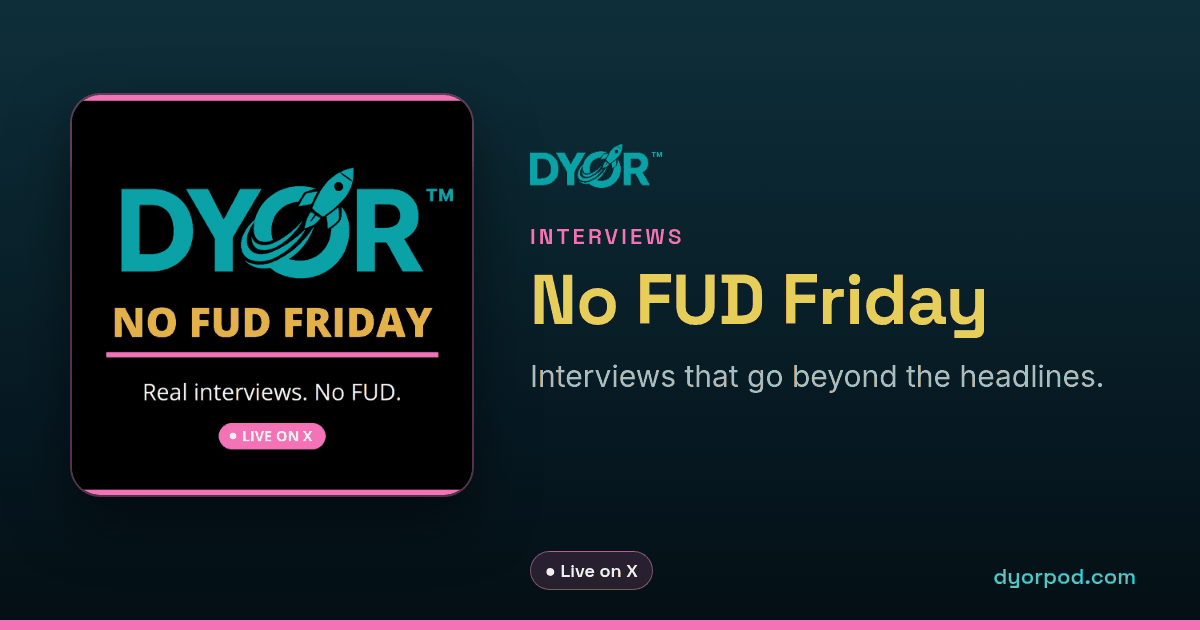
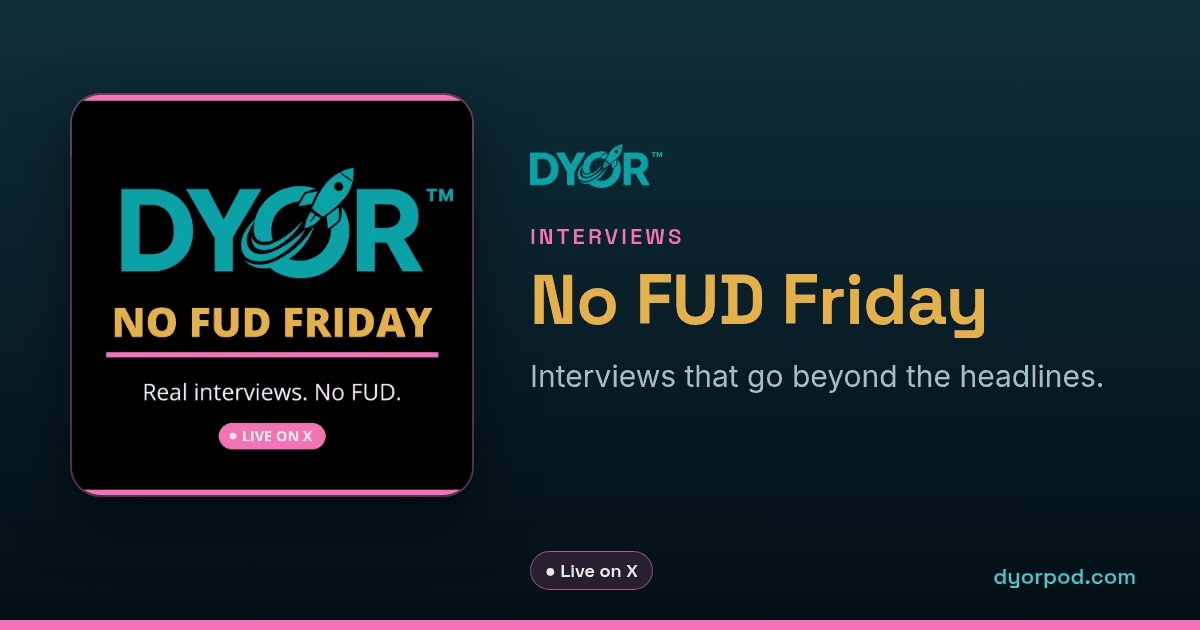
Unify site gold to show gold #E4B048 (was #E5CF59): --gold, button tints/borders, pagehead rule; OG card titles rebuilt in #E4B048 with DYOR™

Changed region(s): [[0.4317, 0.4222, 0.8325, 0.5429]]

diff --git a/assets/site.css b/assets/site.css
@@ -1,7 +1,7 @@
 @font-face{font-family:"Inter";src:url(fonts/Inter-Variable.woff2) format("woff2");font-weight:100 900;font-style:normal;font-display:swap}
 @font-face{font-family:"Space Grotesk";src:url(fonts/SpaceGrotesk-Variable.woff2) format("woff2");font-weight:300 700;font-style:normal;font-display:swap}
 
-:root{--deep:#040f14;--bg:#061821;--bg2:#0a2630;--el:#0e2f3a;--brand:#13a9a6;--bright:#31d1c6;--gold:#e5cf59;--t1:#f5fafa;--t2:#a8bcc1;--bd:#a8bcc124;--sun:#B39DFF}
+:root{--deep:#040f14;--bg:#061821;--bg2:#0a2630;--el:#0e2f3a;--brand:#13a9a6;--bright:#31d1c6;--gold:#e4b048;--t1:#f5fafa;--t2:#a8bcc1;--bd:#a8bcc124;--sun:#B39DFF}
 *{box-sizing:border-box}body{margin:0;background:var(--bg);color:var(--t1);font-family:Inter,system-ui,sans-serif;line-height:1.5}
 h1,h2,h3,.logo{font-family:"Space Grotesk",system-ui,sans-serif;letter-spacing:-.02em}a{color:inherit}
 .draft{background:var(--gold);color:#061821;text-align:center;font:600 13px/1.4 Inter,sans-serif;padding:8px}
@@ -39,8 +39,8 @@ footer{background:var(--deep);padding:28px 0;color:var(--t2);font-size:13px;bord
 
 @media(max-width:820px){.hero,.two{grid-template-columns:1fr}.hero{padding-top:40px}.sunday{padding:22px}}
 html,body{max-width:100%}body{overflow-x:hidden}@supports (overflow-x:clip){html,body{overflow-x:clip}}main,.hero>*{min-width:0}
-.xfollow{display:inline-flex;align-items:center;gap:10px;min-height:48px;padding:0 22px;border-radius:999px;border:2px solid var(--gold);color:var(--t1);font-weight:700;text-decoration:none;background:#e5cf5914}.xfollow b{color:var(--gold)}.xfollow:hover{background:#e5cf5933}
-.xband{margin:8px 0 48px;padding:28px;border:1px solid #e5cf5966;border-radius:20px;background:linear-gradient(160deg,var(--el),var(--bg2));display:flex;flex-wrap:wrap;gap:16px 24px;align-items:center;justify-content:space-between}.xband h2{margin:0;font-size:28px}.xband p{margin:4px 0 0;color:var(--t2)}
+.xfollow{display:inline-flex;align-items:center;gap:10px;min-height:48px;padding:0 22px;border-radius:999px;border:2px solid var(--gold);color:var(--t1);font-weight:700;text-decoration:none;background:#e4b04814}.xfollow b{color:var(--gold)}.xfollow:hover{background:#e4b04833}
+.xband{margin:8px 0 48px;padding:28px;border:1px solid #e4b04866;border-radius:20px;background:linear-gradient(160deg,var(--el),var(--bg2));display:flex;flex-wrap:wrap;gap:16px 24px;align-items:center;justify-content:space-between}.xband h2{margin:0;font-size:28px}.xband p{margin:4px 0 0;color:var(--t2)}
 /* r4 header: universal DYOR mark (Legal keeps pre-pass text logo) */
 .brand{display:flex;flex-direction:column;align-items:flex-start;gap:4px;padding:8px 0}.brand .mark{display:inline-flex;min-height:44px;align-items:center}.brand .mark img{height:40px;width:auto;display:block}
 .brand .mark{text-decoration:none}
@@ -52,7 +52,7 @@ header .wrap:has(.brand){flex-wrap:wrap;gap:4px 16px}
 @media(max-width:520px){header .wrap:has(.brand){flex-wrap:nowrap;justify-content:space-between;gap:8px;padding:10px 16px}.brand{padding:0}.brand~nav{width:auto;margin-left:auto;display:flex;flex-wrap:nowrap;justify-content:flex-end;gap:0}.brand~nav a{padding:0 10px;min-width:44px;min-height:44px;justify-content:center}.brand .mark img{height:34px}
 .brand .mark .tm{margin-top:9px;font-size:15px}}
 /* r4: inner pages carry homepage hero/card look (Legal excluded: no .r4 class) */
-.r4 .pagehead{margin:40px 0 40px;padding:40px;border:1px solid var(--bd);border-top:2px solid #e5cf5999;border-radius:20px;background:linear-gradient(160deg,var(--el),var(--bg2));gap:28px}
+.r4 .pagehead{margin:40px 0 40px;padding:40px;border:1px solid var(--bd);border-top:2px solid #e4b04899;border-radius:20px;background:linear-gradient(160deg,var(--el),var(--bg2));gap:28px}
 .r4 .pagehead h1{font-size:clamp(34px,4.6vw,56px);letter-spacing:-.01em}.r4 .pagehead .sub{color:var(--t2);font-size:18px;max-width:38em;margin:8px 0}.r4 .pagehead .cta{margin-top:18px}
 .r4 .pagehead>div{min-width:0;flex:1 1 300px}.r4 .pagehead .plat{margin-top:16px}
 .r4 .block>h2{font-size:clamp(26px,3vw,34px)}.r4 .demo{border-radius:20px}
